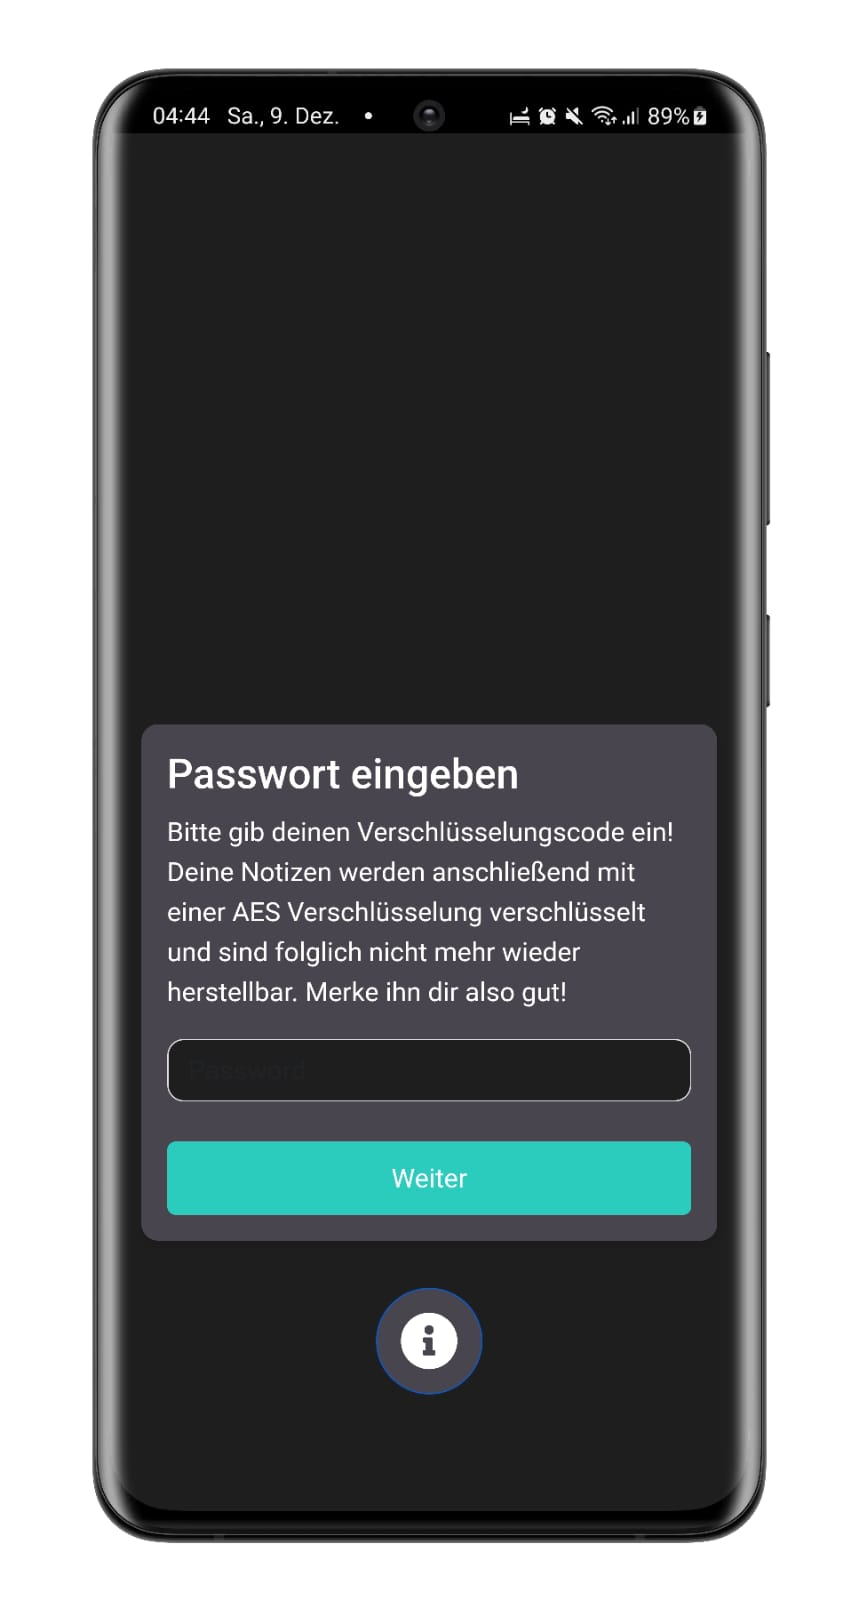
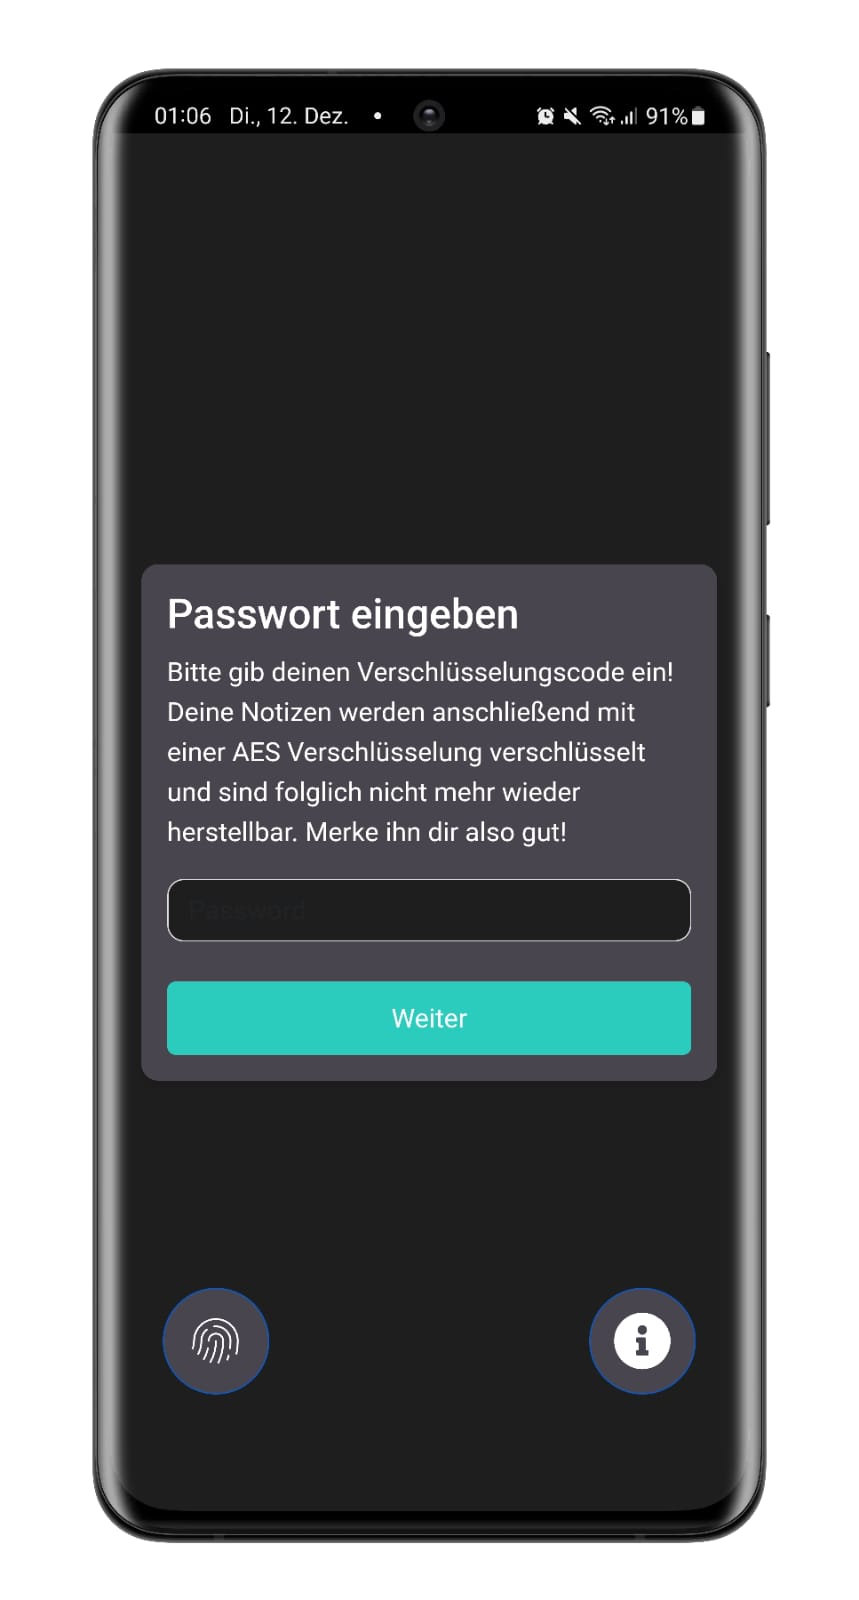
Add new StartScreen Image with Fingerprint Btn

diff --git a/README.md b/README.md
@@ -4,14 +4,14 @@
 Last Edit: 12.2023 <br>
 Language: Typescript React Capacitor<br>
 
-This is a simple Typescript React application which is to be used as an iOS and Android app with the help of Capacitor. 
-With it, it is possible to securely save notes locally with AES encryption, edit/delete them and search through them.
+With this app, it is possible to securely store notes locally with AES encryption, edit/delete them and search them.
+It is also possible to decrypt the notes using native biometrics (e.g. fingerprint sensor). (More on this under Security)
 
 <br><br><br>
 
 Deutsche Kurzbeschreibung:
-Das ist eine einfache Typescript React Anwendung welche mithilfe von Capacitor anschließend als iOS sowie Android App verwendet werden soll. 
-Mit ihr ist es möglich sicher Notizen mit einer AES Verschlüsselung lokal zu speichern, diese zu bearbeiten/löschen und zu durchsuchen.
+Mit dieser App ist es möglich Notizen mit AES-Verschlüsselung sicher lokal zu speichern, sie zu bearbeiten/löschen und sie zu durchsuchen.
+Zudem ist es möglich mithilfe der Native Biometric (z.B. Fingerabdruck Sensor) die Notizen zu entschlüsseln. (Mehr dazu unter Security)
 
 | Start Screen | Notes Overview | Note Edit |
 |--------------|----------------|-----------|
@@ -36,12 +36,14 @@ If this is not used, the password is not saved either.
 The Jest testing framework is used for testing.
 The tests here are always written in Typescript. 
 
-Under modules are modules from other projects of mine for which I have not written further tests. 
+Under modules are modules from other projects of mine for which I have not written further tests.
+
+The goal is actually to have about 90% test coverage, but due to refactorings etc. it is possible that this is temporarily lower.
 
 
 File                                 | % Stmts | % Branch | % Funcs | % Lines | Uncovered Line #s 
 -------------------------------------|---------|----------|---------|---------|-------------------
-All files                            |   81.43 |    65.93 |   79.24 |   82.09 |                   
+All files                            |   74.61 |    63.15 |   71.18 |    74.7 |                   
  src                                 |     100 |      100 |     100 |     100 |                   
   App.tsx                            |     100 |      100 |     100 |     100 |                   
   index.tsx                          |     100 |      100 |     100 |     100 |                   
@@ -50,8 +52,9 @@ All files                            |   81.43 |    65.93 |   79.24 |   82.09 |
   encryptionEngine.ts                |     100 |      100 |     100 |     100 |                   
   getNotes.ts                        |      96 |      100 |     100 |   95.65 | 18                
   viewNote.tsx                       |     100 |      100 |     100 |     100 |                   
- ...ustom_components/notNotesRelated |   44.26 |    18.18 |   57.14 |      45 |                   
-  encryption_modal.tsx               |   24.44 |        0 |   33.33 |      25 | ...-86,93-102,173 
+ ...ustom_components/notNotesRelated |   33.33 |    15.38 |      40 |   33.33 |                   
+  encryption_modal.tsx               |   39.13 |        0 |      30 |   39.13 | 26-52,126         
+  fingerprintLogic.ts                |    6.66 |        0 |       0 |    6.66 | 6-15,24-64,74-97  
   navBar.tsx                         |     100 |      100 |     100 |     100 |                   
  src/modules/app_configuration       |     100 |      100 |     100 |     100 |                   
   app_texts.ts                       |     100 |      100 |     100 |     100 |                   
@@ -61,8 +64,8 @@ All files                            |   81.43 |    65.93 |   79.24 |   82.09 |
   datenschutz.tsx                    |     100 |      100 |     100 |     100 |                   
   impressum.tsx                      |     100 |      100 |     100 |     100 |                   
  src/modules/ui                      |     100 |      100 |     100 |     100 |                   
-  floatingBtn.tsx                    |     100 |      100 |     100 |     100 |                  
-                
+  floatingBtn.tsx                    |     100 |      100 |     100 |     100 |                   
+
 
 ## Architecture
 The components used are divided into two categories:
